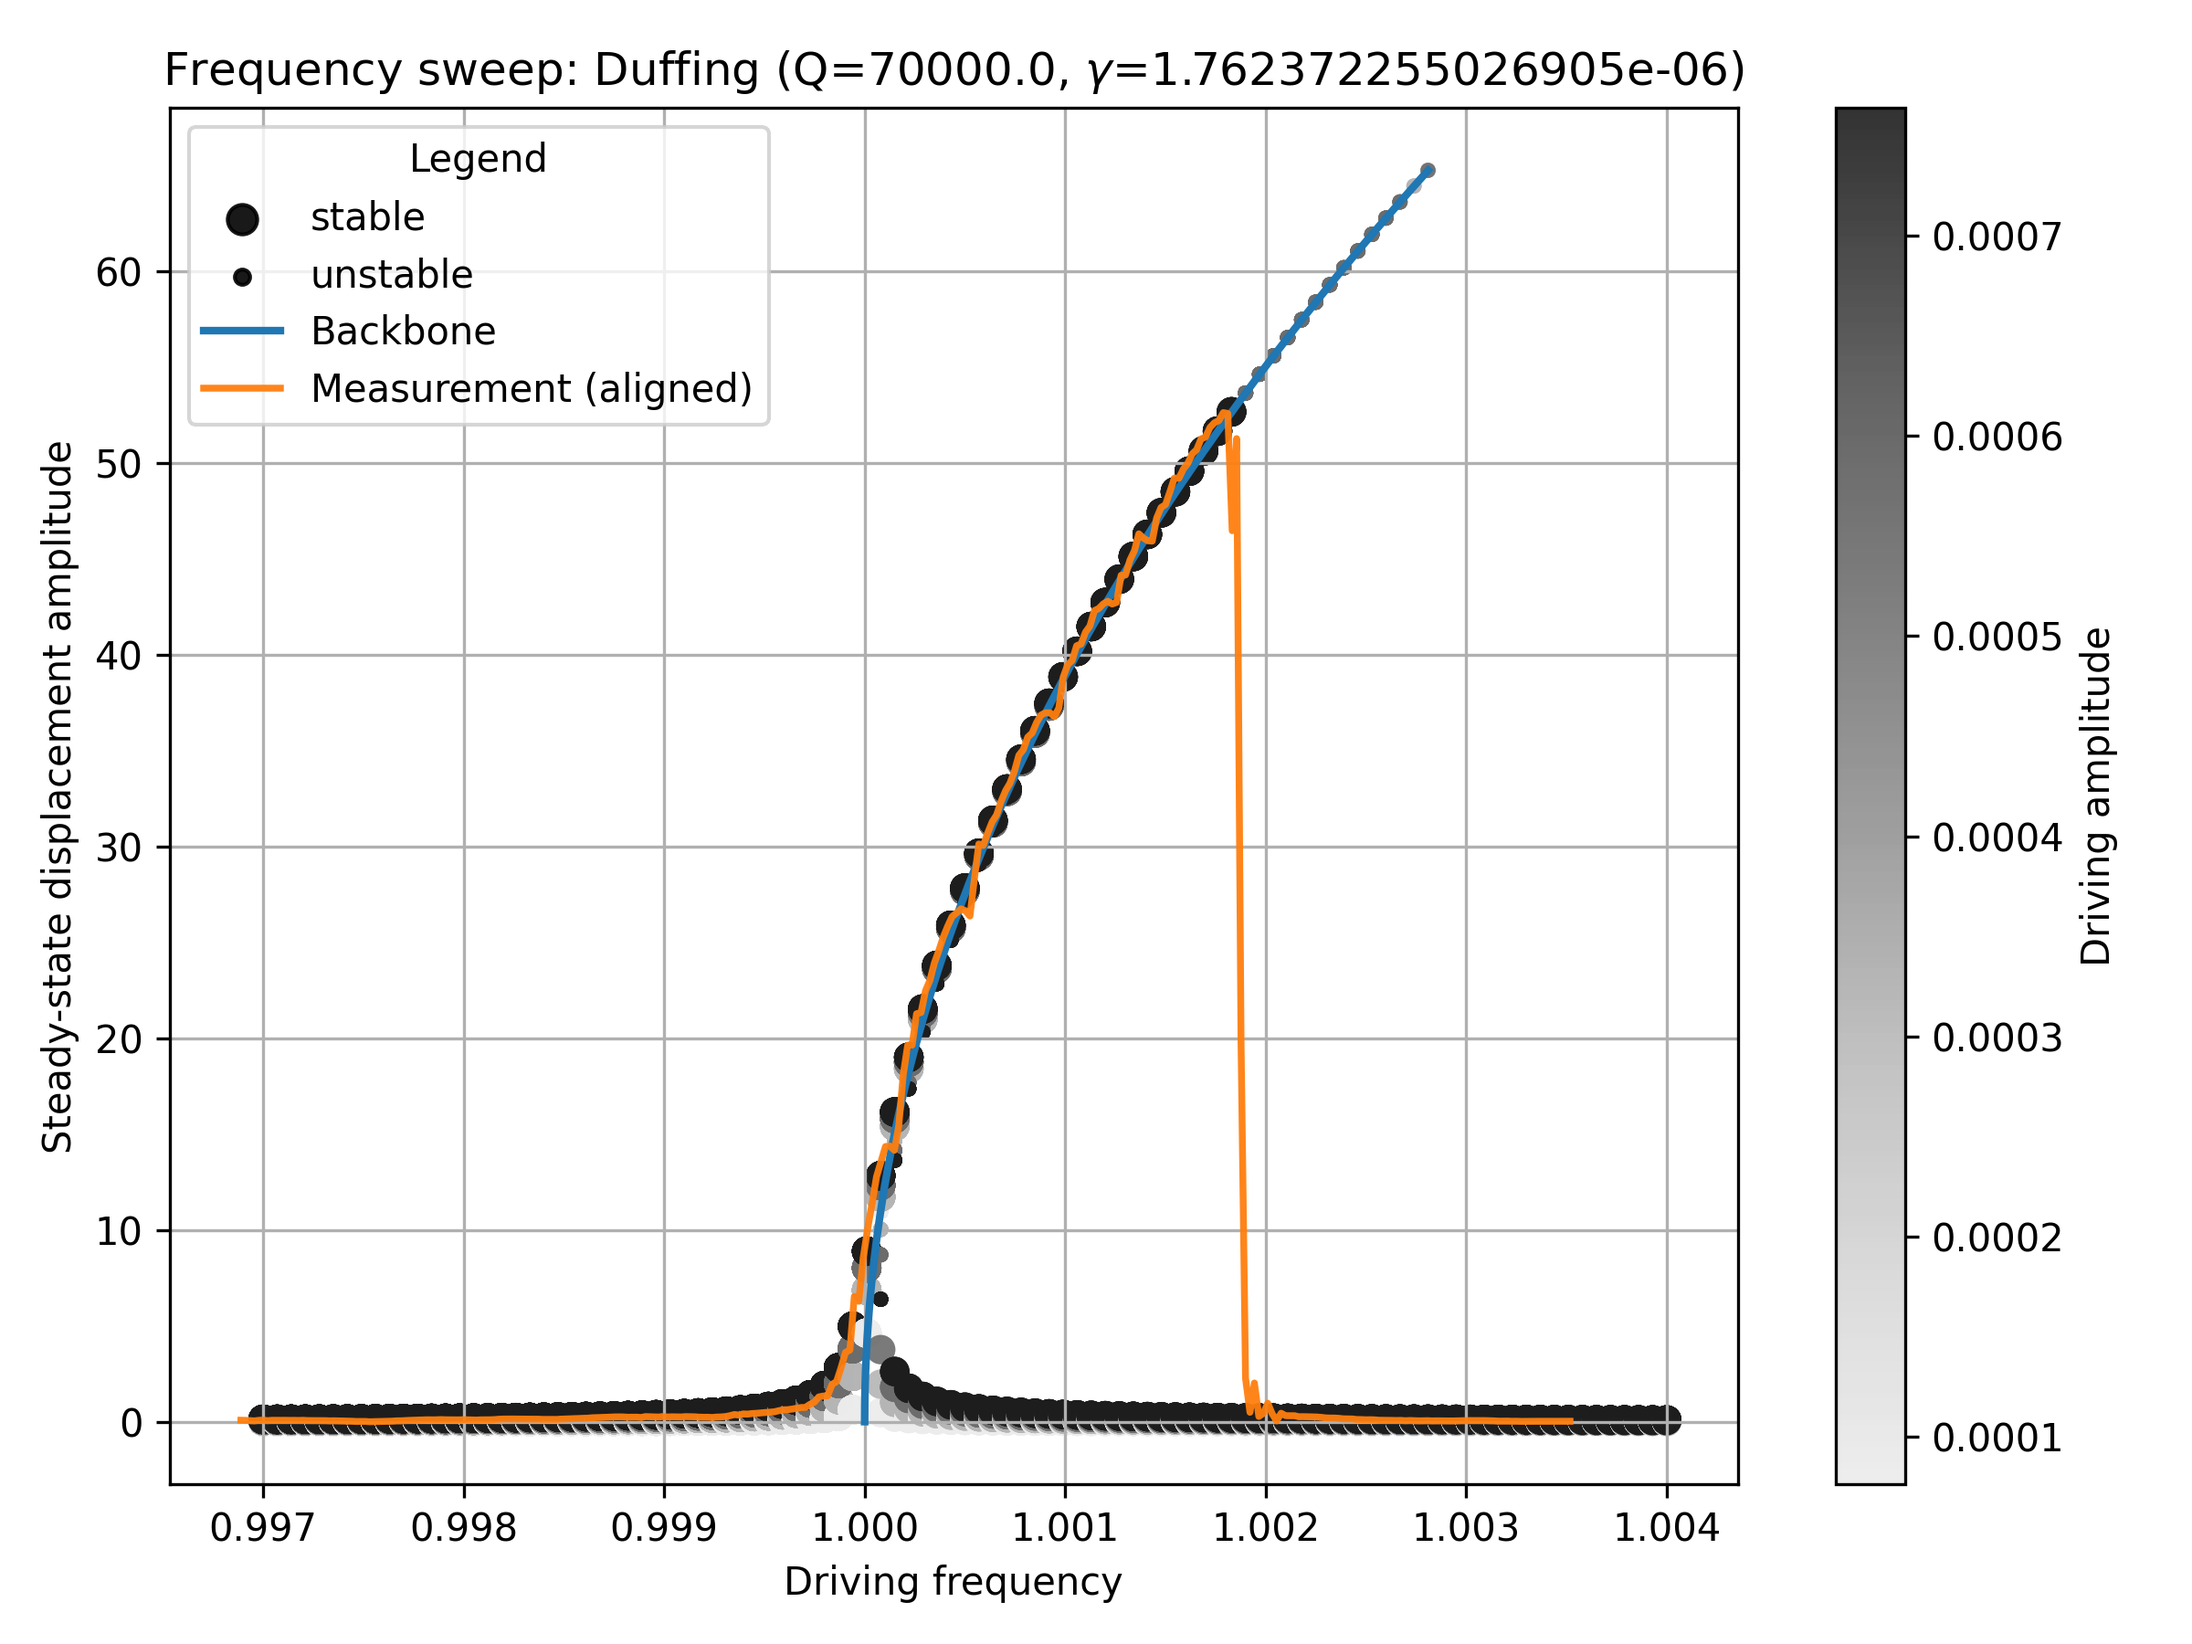
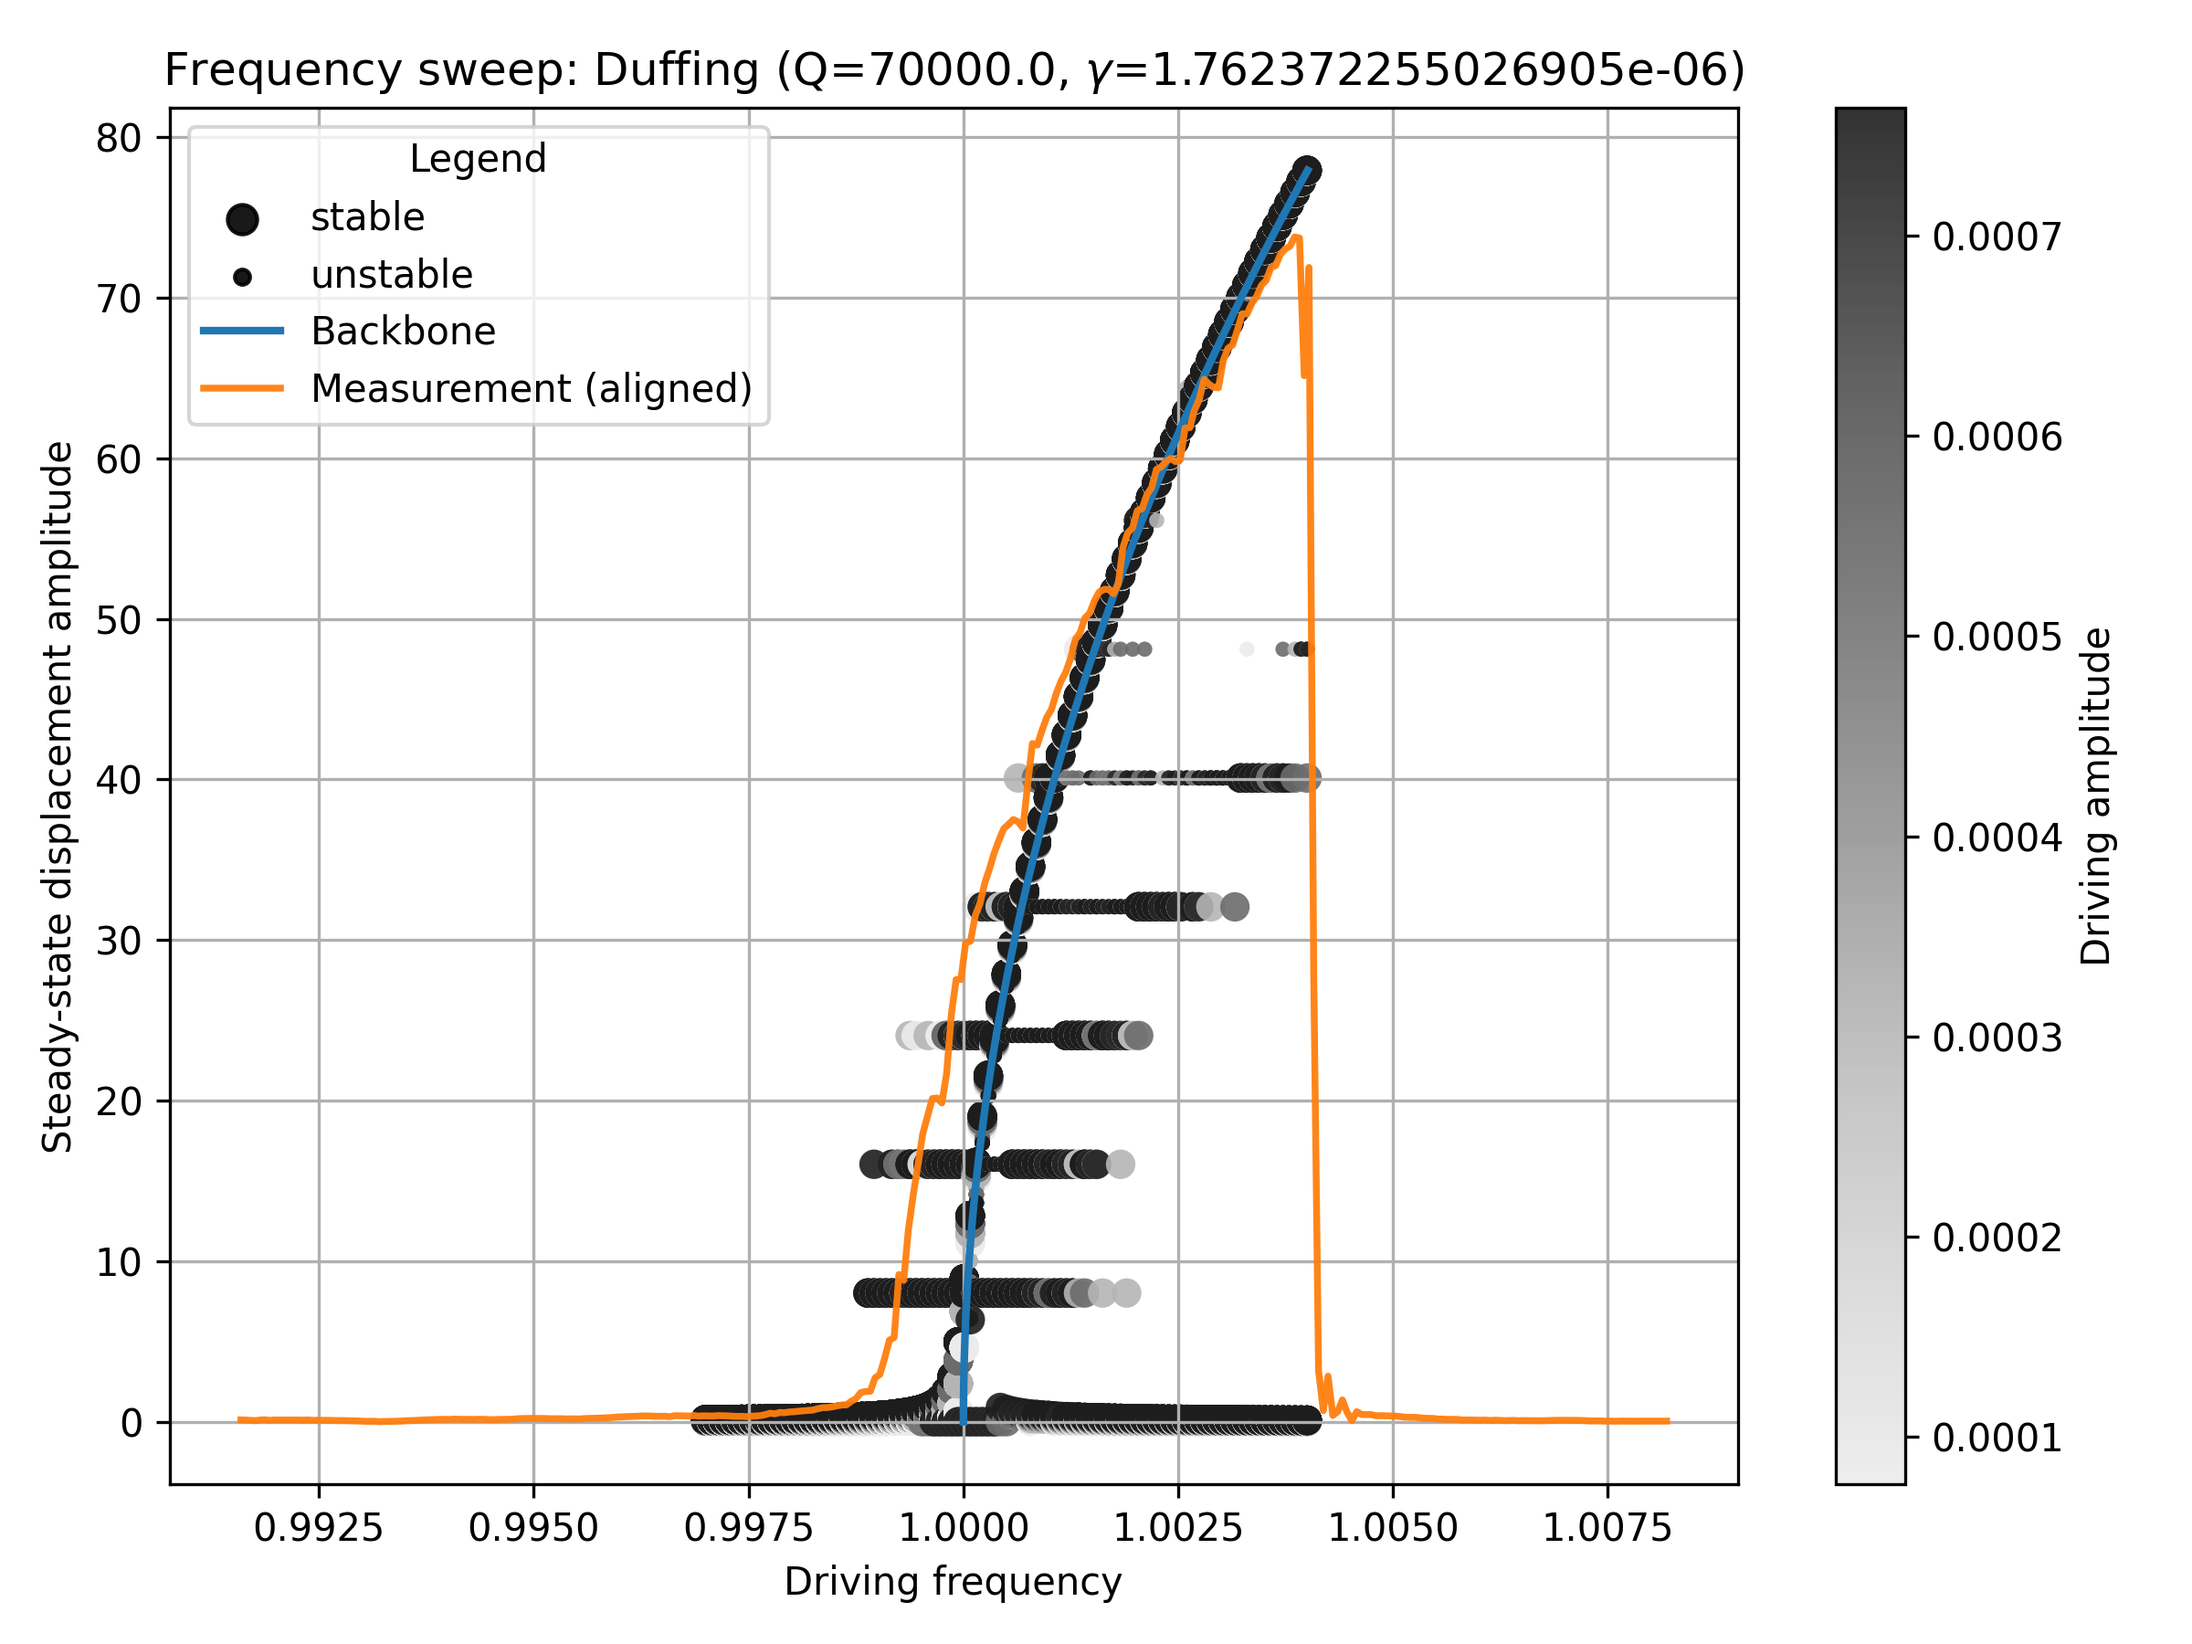
Testing with some values

diff --git a/tests/frequency_sweep/test_frequency_sweep.py b/tests/frequency_sweep/test_frequency_sweep.py
@@ -1,5 +1,5 @@
 import os
-os.environ["XLA_PYTHON_CLIENT_MEM_FRACTION"] = "0.9"  # Use 95% of GPU memory
+os.environ["XLA_PYTHON_CLIENT_MEM_FRACTION"] = "0.85"
 
 from jax import numpy as jnp
 import oscidyn
@@ -22,10 +22,8 @@ SWEEP_DIRECTION = oscidyn.SweepDirection.FORWARD
 DRIVING_FREQUENCY = jnp.linspace(0.997,1.004, 101) 
 DRIVING_AMPLITUDE = jnp.linspace(0.1*f_hat, 1*f_hat, 4)
 MULTISTART = oscidyn.LinearResponseMultistart(init_cond_shape=(21, 1), linear_response_factor=1.5)
-MULTISTART.generate_simulation_grid(MODEL, DRIVING_FREQUENCY, DRIVING_AMPLITUDE)
-print(MULTISTART.max_abs_displacement)
-SOLVER = oscidyn.MultipleShootingSolver(max_steps=1000, m_segments=5, max_shooting_iterations=500, rtol=1e-9, atol=1e-12, multistart=MULTISTART, verbose=True)
-PRECISION = oscidyn.Precision.DOUBLE
+SOLVER = oscidyn.MultipleShootingSolver(max_steps=1000, m_segments=10, max_shooting_iterations=500, rtol=1e-6, atol=1e-7, multistart=MULTISTART, verbose=True)
+PRECISION = oscidyn.Precision.SINGLE
 
 print("Frequency sweeping: ", MODEL)
 

diff --git a/src/oscidyn/solver/multiple_shooting_solver.py b/src/oscidyn/solver/multiple_shooting_solver.py
@@ -134,7 +134,7 @@ class MultipleShootingSolver(AbstractSolver):
             _, Rs = jax.lax.scan(_one, None, jnp.arange(self.m_segments))  # Rs: (m_segments, n_modes * 2)
             return Rs.reshape((-1,))                         # (m_segments * n_modes * 2,)
 
-        solver = optx.LevenbergMarquardt(rtol=1e-6, atol=1e-9) # for debugging: verbose=frozenset({"step", "accepted", "loss", "step_size"})
+        solver = optx.LevenbergMarquardt(rtol=1e-4, atol=1e-5) # for debugging: verbose=frozenset({"step", "accepted", "loss", "step_size"})
         sol = optx.least_squares(_residual, solver, y0=s0, options={"jac": "bwd"}, max_steps=self.max_shooting_iterations, throw=False) 
 
         # This again is probably very sensitive to the initial conditions again, have to think about that
